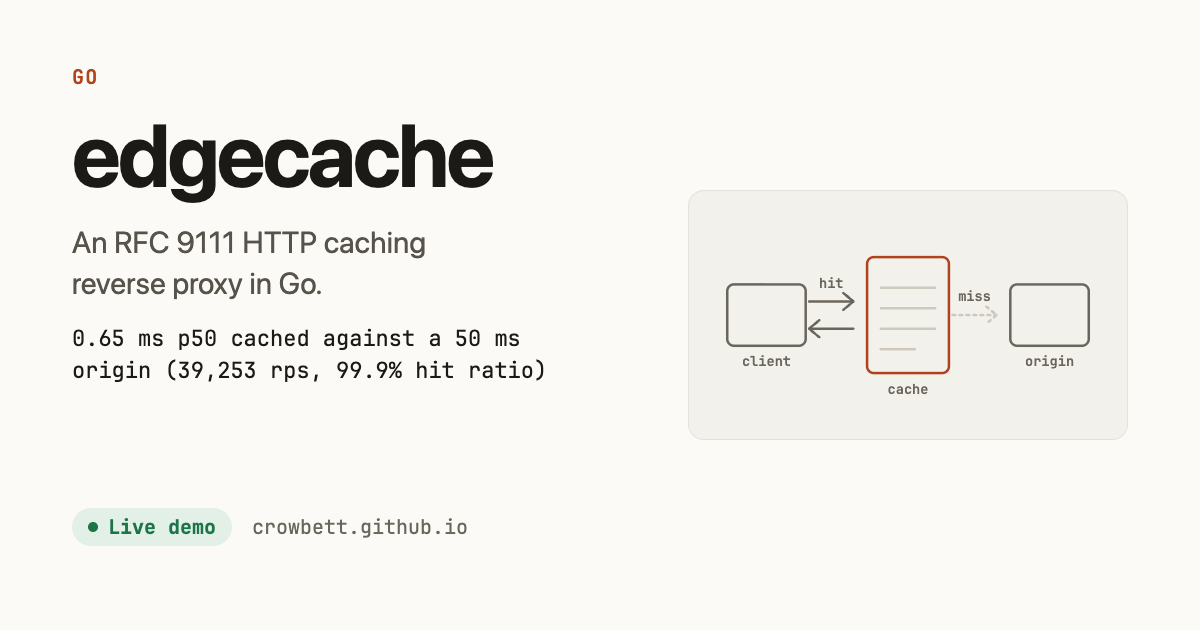
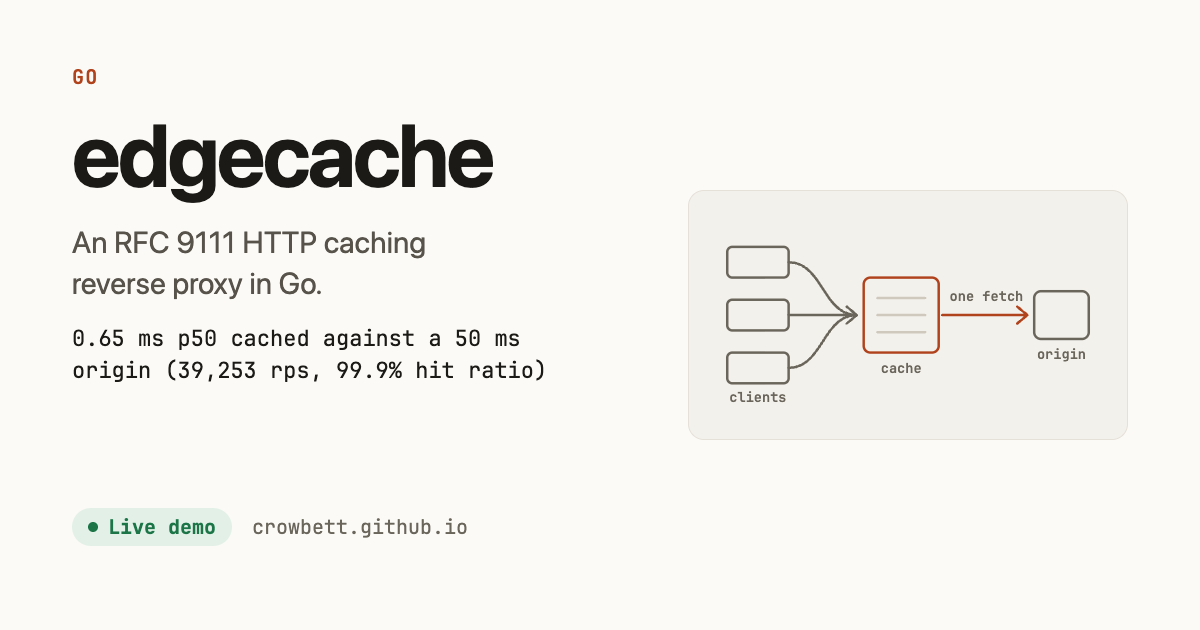
Draw request collapsing for edgecache and SKIP LOCKED for jobrun (V9)

Changed region(s): [[0.5858, 0.3921, 0.925, 0.6333], [0.6167, 0.3619, 0.6475, 0.3921]]

diff --git a/web/assets/site.css b/web/assets/site.css
@@ -273,26 +273,30 @@ h3 { font-size: 1.125rem; margin: var(--sp-6) 0 var(--sp-2); }
 
 /* Diagram motion: once when a feature card or the project facts scroll into view (motion.js adds .play),
    looping while a card is hovered or focused. Every keyframe starts and ends on the static drawing. */
-.dg .mp, .dg .my, .dg .mo, .dg .mx, .dg .mf { transform-box: fill-box; transform-origin: center; }
+.dg .mp, .dg .my, .dg .mo, .dg .mx, .dg .mk { transform-box: fill-box; transform-origin: center; }
 .dg :is(.my, .mo) { transform-origin: 50% 100%; }
-.dg :is(.mx, .mf) { transform-origin: 0 50%; }
+.dg .mx { transform-origin: 0 50%; }
 .dg.play .mp { animation: dg-pulse 1.6s var(--ease-in) 0.1s; }
 .dg.play .mm { animation: dg-march 1.6s linear 0.1s; }
 .dg.play .my { animation: dg-grow-y 1.6s var(--ease-in) 0.1s; }
 .dg.play .mo { animation: dg-over 1.6s var(--ease-in) 0.1s; }
 .dg.play .mx { animation: dg-grow-x 1.6s var(--ease-in) 0.1s; }
 .dg.play .mn { animation: dg-sweep 1.6s ease-in-out 0.1s; }
-.dg .mt { opacity: 0; }
-.dg.play .mt { animation: dg-req 4s linear 0.1s; }
-.dg.play .mf { animation: dg-fill 4s var(--ease-in) 0.1s; }
+.dg :is(.ml, .mw, .ms) { opacity: 0; }
+.dg.play .ml { animation: dg-lead 4s linear 0.1s; }
+.dg.play .mw { animation: dg-wait 4s linear 0.1s; }
+.dg.play .ms { animation: dg-skip 3.2s linear 0.1s; }
+.dg.play .mk { animation: dg-lock 3.2s var(--ease-in) 0.1s; }
 .card a:is(:hover, :focus-visible) .dg .mp { animation: dg-pulse-l 1.6s var(--ease-in) infinite; }
 .card a:is(:hover, :focus-visible) .dg .mm { animation: dg-march-l 1.6s linear infinite; }
 .card a:is(:hover, :focus-visible) .dg .my { animation: dg-grow-y-l 1.6s var(--ease-in) infinite; }
 .card a:is(:hover, :focus-visible) .dg .mo { animation: dg-over-l 1.6s var(--ease-in) infinite; }
 .card a:is(:hover, :focus-visible) .dg .mx { animation: dg-grow-x-l 1.6s var(--ease-in) infinite; }
 .card a:is(:hover, :focus-visible) .dg .mn { animation: dg-sweep-l 1.6s ease-in-out infinite; }
-.card a:is(:hover, :focus-visible) .dg .mt { animation: dg-req-l 4s linear infinite; }
-.card a:is(:hover, :focus-visible) .dg .mf { animation: dg-fill-l 4s var(--ease-in) infinite; }
+.card a:is(:hover, :focus-visible) .dg .ml { animation: dg-lead-l 4s linear infinite; }
+.card a:is(:hover, :focus-visible) .dg .mw { animation: dg-wait-l 4s linear infinite; }
+.card a:is(:hover, :focus-visible) .dg .ms { animation: dg-skip-l 3.2s linear infinite; }
+.card a:is(:hover, :focus-visible) .dg .mk { animation: dg-lock-l 3.2s var(--ease-in) infinite; }
 @keyframes dg-pulse { 40% { transform: scale(1.3); opacity: 0.7; } }
 @keyframes dg-pulse-l { 40% { transform: scale(1.3); opacity: 0.7; } }
 @keyframes dg-march { to { stroke-dashoffset: -14; } }
@@ -306,10 +310,14 @@ h3 { font-size: 1.125rem; margin: var(--sp-6) 0 var(--sp-2); }
 @keyframes dg-sweep-l { 50% { transform: translateX(-40px); } }
 @keyframes dg-over { 0%, 55% { transform: scaleY(0.001); opacity: 0; } 56% { opacity: 1; } 85% { transform: none; } }
 @keyframes dg-over-l { 0%, 55% { transform: scaleY(0.001); opacity: 0; } 56% { opacity: 1; } 85% { transform: none; } }
-@keyframes dg-req { 0%, 15%, 16%, 45%, 46%, 60%, 62%, 73%, 74%, 86%, 100% { opacity: 0; } 3%, 14%, 18%, 43%, 48%, 58%, 64%, 72%, 75%, 84% { opacity: 1; } 0%, 62% { transform: none; } 14%, 15%, 72%, 73% { transform: translateX(24px); } 16%, 44%, 45% { transform: translate(84px, 8px); } 26%, 34% { transform: translate(108px, 8px); } 46%, 74% { transform: translate(24px, 16px); } 58%, 60%, 84%, 100% { transform: translate(0, 16px); } }
-@keyframes dg-req-l { 0%, 15%, 16%, 45%, 46%, 60%, 62%, 73%, 74%, 86%, 100% { opacity: 0; } 3%, 14%, 18%, 43%, 48%, 58%, 64%, 72%, 75%, 84% { opacity: 1; } 0%, 62% { transform: none; } 14%, 15%, 72%, 73% { transform: translateX(24px); } 16%, 44%, 45% { transform: translate(84px, 8px); } 26%, 34% { transform: translate(108px, 8px); } 46%, 74% { transform: translate(24px, 16px); } 58%, 60%, 84%, 100% { transform: translate(0, 16px); } }
-@keyframes dg-fill { 0%, 44% { transform: scaleX(0.001); opacity: 0; } 45% { opacity: 1; } 52% { transform: none; } }
-@keyframes dg-fill-l { 0%, 44% { transform: scaleX(0.001); opacity: 0; } 45% { opacity: 1; } 52% { transform: none; } }
+@keyframes dg-lead { 0%, 18%, 20%, 34%, 37%, 51%, 60%, 83%, 100% { opacity: 0; } 3%, 17%, 21%, 33%, 38%, 50%, 61%, 80% { opacity: 1; } 0%, 80%, 100% { transform: none; } 18% { transform: translateX(38px); } 19%, 20%, 51% { transform: translateX(88px); } 34%, 37% { transform: translateX(140px); } 52%, 60% { transform: translateX(38px); } }
+@keyframes dg-lead-l { 0%, 18%, 20%, 34%, 37%, 51%, 60%, 83%, 100% { opacity: 0; } 3%, 17%, 21%, 33%, 38%, 50%, 61%, 80% { opacity: 1; } 0%, 80%, 100% { transform: none; } 18% { transform: translateX(38px); } 19%, 20%, 51% { transform: translateX(88px); } 34%, 37% { transform: translateX(140px); } 52%, 60% { transform: translateX(38px); } }
+@keyframes dg-wait { 0%, 83%, 100% { opacity: 0; } 3%, 80% { opacity: 1; } 0%, 80%, 100% { transform: none; } 9%, 70% { transform: translate(12px, 7px); } 18%, 60% { transform: translate(21px, 20px); } }
+@keyframes dg-wait-l { 0%, 83%, 100% { opacity: 0; } 3%, 80% { opacity: 1; } 0%, 80%, 100% { transform: none; } 9%, 70% { transform: translate(12px, 7px); } 18%, 60% { transform: translate(21px, 20px); } }
+@keyframes dg-skip { 0%, 54%, 100% { opacity: 0; } 4%, 52% { opacity: 1; } 0% { transform: none; } 18%, 22% { transform: translateX(-44px); } 27% { transform: translate(-37px, 7.5px); } 32%, 36% { transform: translate(-44px, 15px); } 41% { transform: translate(-37px, 22.5px); } 46% { transform: translate(-44px, 30px); } 52%, 100% { transform: translate(-53px, 30px); } }
+@keyframes dg-skip-l { 0%, 54%, 100% { opacity: 0; } 4%, 52% { opacity: 1; } 0% { transform: none; } 18%, 22% { transform: translateX(-44px); } 27% { transform: translate(-37px, 7.5px); } 32%, 36% { transform: translate(-44px, 15px); } 41% { transform: translate(-37px, 22.5px); } 46% { transform: translate(-44px, 30px); } 52%, 100% { transform: translate(-53px, 30px); } }
+@keyframes dg-lock { 0%, 52% { transform: scale(0.001); opacity: 0; } 53% { opacity: 1; } 64% { transform: none; } }
+@keyframes dg-lock-l { 0%, 52% { transform: scale(0.001); opacity: 0; } 53% { opacity: 1; } 64% { transform: none; } }
 
 /* Metadata */
 .nw { white-space: nowrap; }

diff --git a/templates/diagrams.html b/templates/diagrams.html
@@ -1,4 +1,4 @@
-{{/* One line drawing per project: the mechanism, not a logo. Styled by .dg in site.css; drawn on a 240x120 grid, framed 8 6 224 108 to trim the empty margin. Motion classes (mp pulse, mm march, my/mx grow, mo overflow, mn sweep, mf cache fill, mt request) are animated there. */}}
+{{/* One line drawing per project: the mechanism, not a logo. Styled by .dg in site.css; drawn on a 240x120 grid, framed 8 6 224 108 to trim the empty margin. Motion classes (mp pulse, mm march, my/mx grow, mo overflow, mn sweep, ml/mw collapsed request, ms/mk skip and lock) are animated there. */}}
 {{define "diagram"}}<svg class="dg" viewBox="8 6 224 108" focusable="false">{{if eq . "quorum"}}
 <path class="d mm" d="M120 28 158 47.6M120 28 143.5 92.4M120 28 96.5 92.4M120 28 82 47.6"/>
 <circle class="s" cx="120" cy="60" r="40"/>
@@ -23,14 +23,14 @@
 <path class="a" d="M16 50h110"/><text class="t" x="46" y="45">limit</text>
 <path class="s d" d="M126 50h98"/><path class="a d mx" d="M126 34h98"/><text class="t" x="190" y="29">local limit</text>
 {{else if eq . "edgecache"}}
-<rect class="n" x="14" y="42" width="46" height="36" rx="4"/>
-<rect class="a n" x="96" y="26" width="48" height="68" rx="4"/>
-<path class="s" d="M104 44h32M104 56h32M104 68h32"/><path class="s mf" d="M104 80h20"/>
-<rect class="n" x="180" y="42" width="46" height="36" rx="4"/>
-<path d="M62 52h26m-6-5 6 5-6 5M88 68H62m6-5-6 5 6 5"/>
-<path class="s d" d="M146 60h26m-6-5 6 5-6 5"/>
-<circle class="af mt" cx="64" cy="52" r="4"/>
-<text class="t" x="37" y="90">client</text><text class="t" x="120" y="106">cache</text><text class="t" x="203" y="90">origin</text><text class="t" x="75" y="44">hit</text><text class="t" x="159" y="52">miss</text>
+<rect class="n" x="14" y="20" width="36" height="18" rx="3"/><rect class="n" x="14" y="51" width="36" height="18" rx="3"/><rect class="n" x="14" y="82" width="36" height="18" rx="3"/>
+<path d="M50 29c20 0 20 31 40 31M50 91c20 0 20-31 40-31M50 60h40m-6-5 6 5-6 5"/>
+<rect class="a n" x="94" y="38" width="44" height="44" rx="4"/>
+<path class="s" d="M102 50h28M102 60h28M102 70h28"/>
+<rect class="n" x="194" y="46" width="32" height="28" rx="4"/>
+<path class="a" d="M140 60h50m-6-5 6 5-6 5"/>
+<circle class="af ml" cx="52" cy="60" r="3.5"/><circle class="af mw" cx="52" cy="29" r="3.5"/><g transform="matrix(1 0 0 -1 0 120)"><circle class="af mw" cx="52" cy="29" r="3.5"/></g>
+<text class="t" x="32" y="111">clients</text><text class="t" x="116" y="94">cache</text><text class="t" x="210" y="86">origin</text><text class="t" x="166" y="52">one fetch</text>
 {{else if eq . "kvlite"}}
 <rect class="n" x="20" y="22" width="72" height="42" rx="3"/>
 <path class="s" d="M20 36h72M20 50h72"/>
@@ -42,13 +42,14 @@
 <circle class="ff" cx="146" cy="86" r="2"/><circle class="ff" cx="100" cy="86" r="2"/>
 <text class="t" x="56" y="16">keydir</text><text class="t" x="195" y="74">active</text><text class="t" x="95" y="111">append-only segments</text>
 {{else if eq . "jobrun"}}
-<path class="n" d="M18 30v56c0 5 11 9 24 9s24-4 24-9V30"/><ellipse class="n" cx="42" cy="30" rx="24" ry="9"/>
-<rect class="n" x="32" y="50" width="20" height="8" rx="2"/><rect class="n" x="32" y="64" width="20" height="8" rx="2"/>
-<path d="M68 58h54m-6-5 6 5-6 5"/>
-<circle class="af mp" cx="146" cy="32" r="9"/><circle class="n" cx="146" cy="58" r="9"/><circle class="n" cx="146" cy="84" r="9"/>
-<path class="s d mm" d="M157 84h41a13 13 0 0 0 0-26h-38"/><path class="s" d="M166 53l-6 5 6 5"/>
-<path d="M160 108h64M162 100v8M168 100v8M180 100v8M204 100v8"/>
-<text class="t" x="42" y="110">queue</text><text class="t" x="146" y="16">workers</text><text class="t" x="186" y="74">retry</text><text class="t" x="192" y="96">backoff</text>
+<path class="n" d="M76 20v68c0 5 18 9 40 9s40-4 40-9V20"/><ellipse class="n" cx="116" cy="20" rx="40" ry="7"/>
+<rect class="n" x="86" y="30" width="48" height="10" rx="2"/><rect class="n" x="86" y="45" width="48" height="10" rx="2"/><rect class="n" x="86" y="60" width="48" height="10" rx="2"/><rect class="n" x="86" y="75" width="48" height="10" rx="2"/>
+<rect class="n" x="138" y="33" width="10" height="8" rx="1"/><rect class="n" x="138" y="48" width="10" height="8" rx="1"/><path d="M140 33v-2a3 3 0 0 1 6 0v2M140 48v-2a3 3 0 0 1 6 0v2"/>
+<g class="mk"><rect class="af" x="138" y="63" width="10" height="8" rx="1"/><path class="a" d="M140 63v-2a3 3 0 0 1 6 0v2"/></g>
+<circle class="n" cx="36" cy="30" r="8"/><circle class="n" cx="36" cy="56" r="8"/><path d="M44 31 84 35M44 55 84 50"/>
+<path class="a" d="M204 35H160a7.5 7.5 0 0 1 0 15 7.5 7.5 0 0 1 0 15h-9m6-5-6 5 6 5"/>
+<circle class="a n" cx="212" cy="35" r="8"/><circle class="af ms" cx="204" cy="35" r="3"/>
+<text class="t" x="36" y="16">workers</text><text class="t" x="116" y="110">postgres</text><text class="t" x="192" y="82">skip locked</text>
 {{else if eq . "codegraph"}}
 <path d="M58 26 108 54M58 60H106M58 94 108 66"/>
 <path class="s" d="M134 54 182 30M134 66 182 90"/>
